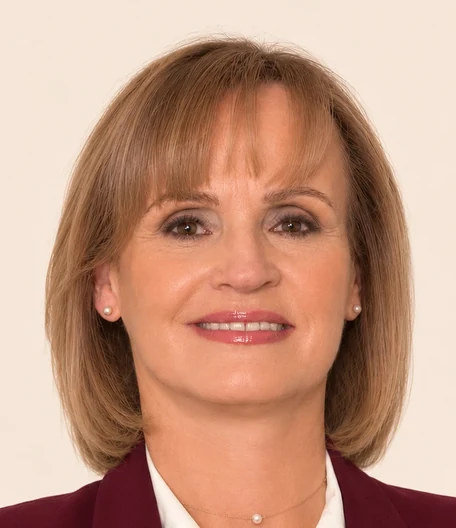
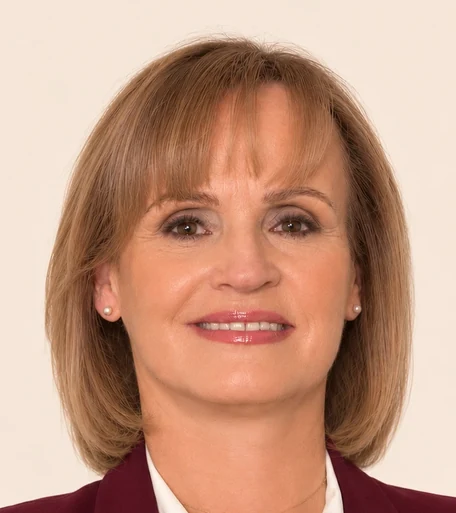
À propos (FR, EN, ES) : photo du parcours recadrée un peu plus bas pour montrer moins de veste, le reste inchangé

diff --git a/a-propos-es.html b/a-propos-es.html
@@ -43,7 +43,7 @@
 .mon-approche-photo .photo-ring::after{ content: ""; position: absolute; top: -12px; left: -12px; right: 12px; bottom: 12px; border: 1.5px solid #C75F62; pointer-events: none; z-index: 3; }
 @media (max-width: 640px){ .mon-approche-photo .photo-ring::after{ top: -8px; left: -8px; right: 8px; bottom: 8px; } }
 /* Parcours : portrait rectangulaire avec le même cadre terracotta décalé que l'accueil */
-.parcours-photo{ width: 114px !important; height: 132px !important; border-radius: 0 !important; border: none !important; box-shadow: none !important; margin-top: 0 !important; align-self: center !important; position: relative !important; overflow: visible !important; flex-shrink: 0; background: transparent !important; }.parcours-photo img{ display: block; width: 100% !important; height: 100% !important; object-fit: cover; object-position: center top; }.parcours-photo::after{ content: ""; position: absolute; top: -8px; left: -8px; right: 8px; bottom: 8px; border: 1.5px solid #C75F62; pointer-events: none; z-index: 3; }@media (min-width:768px){.parcours-header .parcours-photo{align-self:flex-start !important;margin-top:46px !important}}@media (max-width:767px){.parcours-header{flex-direction:column !important}.parcours-header .parcours-photo{margin:0 auto 22px !important}}
+.parcours-photo{ width: 114px !important; height: 128px !important; border-radius: 0 !important; border: none !important; box-shadow: none !important; margin-top: 0 !important; align-self: center !important; position: relative !important; overflow: visible !important; flex-shrink: 0; background: transparent !important; }.parcours-photo img{ display: block; width: 100% !important; height: 100% !important; object-fit: cover; object-position: center top; }.parcours-photo::after{ content: ""; position: absolute; top: -8px; left: -8px; right: 8px; bottom: 8px; border: 1.5px solid #C75F62; pointer-events: none; z-index: 3; }@media (min-width:768px){.parcours-header .parcours-photo{align-self:flex-start !important;margin-top:46px !important}}@media (max-width:767px){.parcours-header{flex-direction:column !important}.parcours-header .parcours-photo{margin:0 auto 22px !important}}
 /* À propos : lignes de conviction, principe et mission en Inter (charte), plus nettes */
 .about-principe-sub, .about-lede--voice, .about-lede--voice em, .about-principe-sub strong{ font-family: var(--sans) !important; font-style: normal !important; font-weight: 400 !important; font-size: clamp(1.1rem, 1.7vw, 1.3rem) !important; letter-spacing: -.005em !important; line-height: 1.6 !important; color: #633B4A !important; }
 .about-principe-sub strong{ font-weight: 600 !important; }
@@ -127,7 +127,7 @@
     <span class="parcours-top-sep" aria-hidden="true"></span>
     <div class="parcours-header reveal">
       <div class="parcours-photo">
-        <img src="assets/photo-valerie-parcours.webp" alt="Valérie Mailland" width="114" height="132" loading="lazy" decoding="async">
+        <img src="assets/photo-valerie-parcours.webp" alt="Valérie Mailland" width="114" height="128" loading="lazy" decoding="async">
       </div>
       <div class="parcours-header-text">
         <span class="eyebrow">Trayectoria</span>

diff --git a/a-propos.html b/a-propos.html
@@ -43,7 +43,7 @@
 .mon-approche-photo .photo-ring::after{ content: ""; position: absolute; top: -12px; left: -12px; right: 12px; bottom: 12px; border: 1.5px solid #C75F62; pointer-events: none; z-index: 3; }
 @media (max-width: 640px){ .mon-approche-photo .photo-ring::after{ top: -8px; left: -8px; right: 8px; bottom: 8px; } }
 /* Parcours : portrait rectangulaire avec le même cadre terracotta décalé que l'accueil */
-.parcours-photo{ width: 114px !important; height: 132px !important; border-radius: 0 !important; border: none !important; box-shadow: none !important; margin-top: 0 !important; align-self: center !important; position: relative !important; overflow: visible !important; flex-shrink: 0; background: transparent !important; }.parcours-photo img{ display: block; width: 100% !important; height: 100% !important; object-fit: cover; object-position: center top; }.parcours-photo::after{ content: ""; position: absolute; top: -8px; left: -8px; right: 8px; bottom: 8px; border: 1.5px solid #C75F62; pointer-events: none; z-index: 3; }@media (min-width:768px){.parcours-header .parcours-photo{align-self:flex-start !important;margin-top:46px !important}}@media (max-width:767px){.parcours-header{flex-direction:column !important}.parcours-header .parcours-photo{margin:0 auto 22px !important}}
+.parcours-photo{ width: 114px !important; height: 128px !important; border-radius: 0 !important; border: none !important; box-shadow: none !important; margin-top: 0 !important; align-self: center !important; position: relative !important; overflow: visible !important; flex-shrink: 0; background: transparent !important; }.parcours-photo img{ display: block; width: 100% !important; height: 100% !important; object-fit: cover; object-position: center top; }.parcours-photo::after{ content: ""; position: absolute; top: -8px; left: -8px; right: 8px; bottom: 8px; border: 1.5px solid #C75F62; pointer-events: none; z-index: 3; }@media (min-width:768px){.parcours-header .parcours-photo{align-self:flex-start !important;margin-top:46px !important}}@media (max-width:767px){.parcours-header{flex-direction:column !important}.parcours-header .parcours-photo{margin:0 auto 22px !important}}
 /* À propos : lignes de conviction, principe et mission en Inter (charte), plus nettes */
 .about-principe-sub, .about-lede--voice, .about-lede--voice em, .about-principe-sub strong{ font-family: var(--sans) !important; font-style: normal !important; font-weight: 400 !important; font-size: clamp(1.1rem, 1.7vw, 1.3rem) !important; letter-spacing: -.005em !important; line-height: 1.6 !important; color: #633B4A !important; }
 .about-principe-sub strong{ font-weight: 600 !important; }
@@ -127,7 +127,7 @@
     <span class="parcours-top-sep" aria-hidden="true"></span>
     <div class="parcours-header reveal">
       <div class="parcours-photo">
-        <img src="assets/photo-valerie-parcours.webp" alt="Valérie Mailland" width="114" height="132" loading="lazy" decoding="async">
+        <img src="assets/photo-valerie-parcours.webp" alt="Valérie Mailland" width="114" height="128" loading="lazy" decoding="async">
       </div>
       <div class="parcours-header-text">
         <span class="eyebrow">Parcours</span>

diff --git a/a-propos-en.html b/a-propos-en.html
@@ -43,7 +43,7 @@
 .mon-approche-photo .photo-ring::after{ content: ""; position: absolute; top: -12px; left: -12px; right: 12px; bottom: 12px; border: 1.5px solid #C75F62; pointer-events: none; z-index: 3; }
 @media (max-width: 640px){ .mon-approche-photo .photo-ring::after{ top: -8px; left: -8px; right: 8px; bottom: 8px; } }
 /* Parcours : portrait rectangulaire avec le même cadre terracotta décalé que l'accueil */
-.parcours-photo{ width: 114px !important; height: 132px !important; border-radius: 0 !important; border: none !important; box-shadow: none !important; margin-top: 0 !important; align-self: center !important; position: relative !important; overflow: visible !important; flex-shrink: 0; background: transparent !important; }.parcours-photo img{ display: block; width: 100% !important; height: 100% !important; object-fit: cover; object-position: center top; }.parcours-photo::after{ content: ""; position: absolute; top: -8px; left: -8px; right: 8px; bottom: 8px; border: 1.5px solid #C75F62; pointer-events: none; z-index: 3; }@media (min-width:768px){.parcours-header .parcours-photo{align-self:flex-start !important;margin-top:46px !important}}@media (max-width:767px){.parcours-header{flex-direction:column !important}.parcours-header .parcours-photo{margin:0 auto 22px !important}}
+.parcours-photo{ width: 114px !important; height: 128px !important; border-radius: 0 !important; border: none !important; box-shadow: none !important; margin-top: 0 !important; align-self: center !important; position: relative !important; overflow: visible !important; flex-shrink: 0; background: transparent !important; }.parcours-photo img{ display: block; width: 100% !important; height: 100% !important; object-fit: cover; object-position: center top; }.parcours-photo::after{ content: ""; position: absolute; top: -8px; left: -8px; right: 8px; bottom: 8px; border: 1.5px solid #C75F62; pointer-events: none; z-index: 3; }@media (min-width:768px){.parcours-header .parcours-photo{align-self:flex-start !important;margin-top:46px !important}}@media (max-width:767px){.parcours-header{flex-direction:column !important}.parcours-header .parcours-photo{margin:0 auto 22px !important}}
 /* À propos : lignes de conviction, principe et mission en Inter (charte), plus nettes */
 .about-principe-sub, .about-lede--voice, .about-lede--voice em, .about-principe-sub strong{ font-family: var(--sans) !important; font-style: normal !important; font-weight: 400 !important; font-size: clamp(1.1rem, 1.7vw, 1.3rem) !important; letter-spacing: -.005em !important; line-height: 1.6 !important; color: #633B4A !important; }
 .about-principe-sub strong{ font-weight: 600 !important; }
@@ -127,7 +127,7 @@
     <span class="parcours-top-sep" aria-hidden="true"></span>
     <div class="parcours-header reveal">
       <div class="parcours-photo">
-        <img src="assets/photo-valerie-parcours.webp" alt="Valérie Mailland" width="114" height="132" loading="lazy" decoding="async">
+        <img src="assets/photo-valerie-parcours.webp" alt="Valérie Mailland" width="114" height="128" loading="lazy" decoding="async">
       </div>
       <div class="parcours-header-text">
         <span class="eyebrow">Journey</span>
